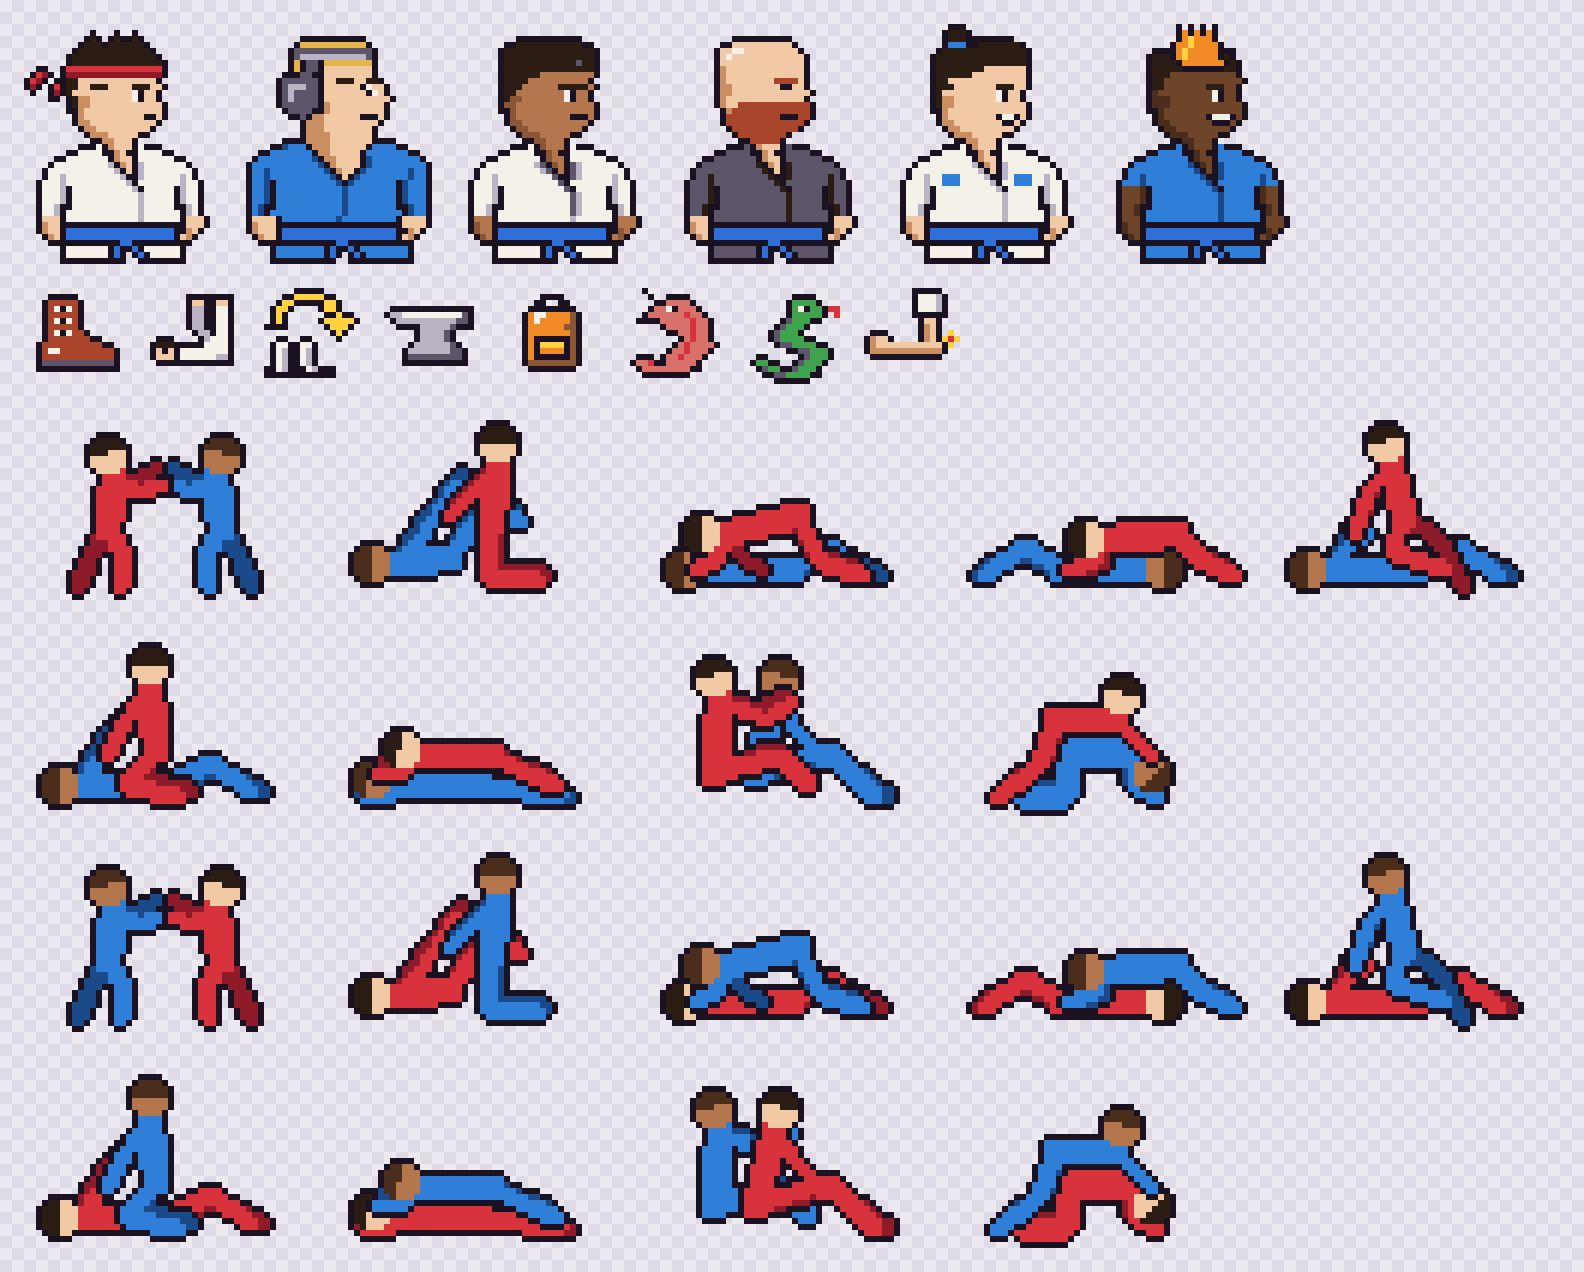
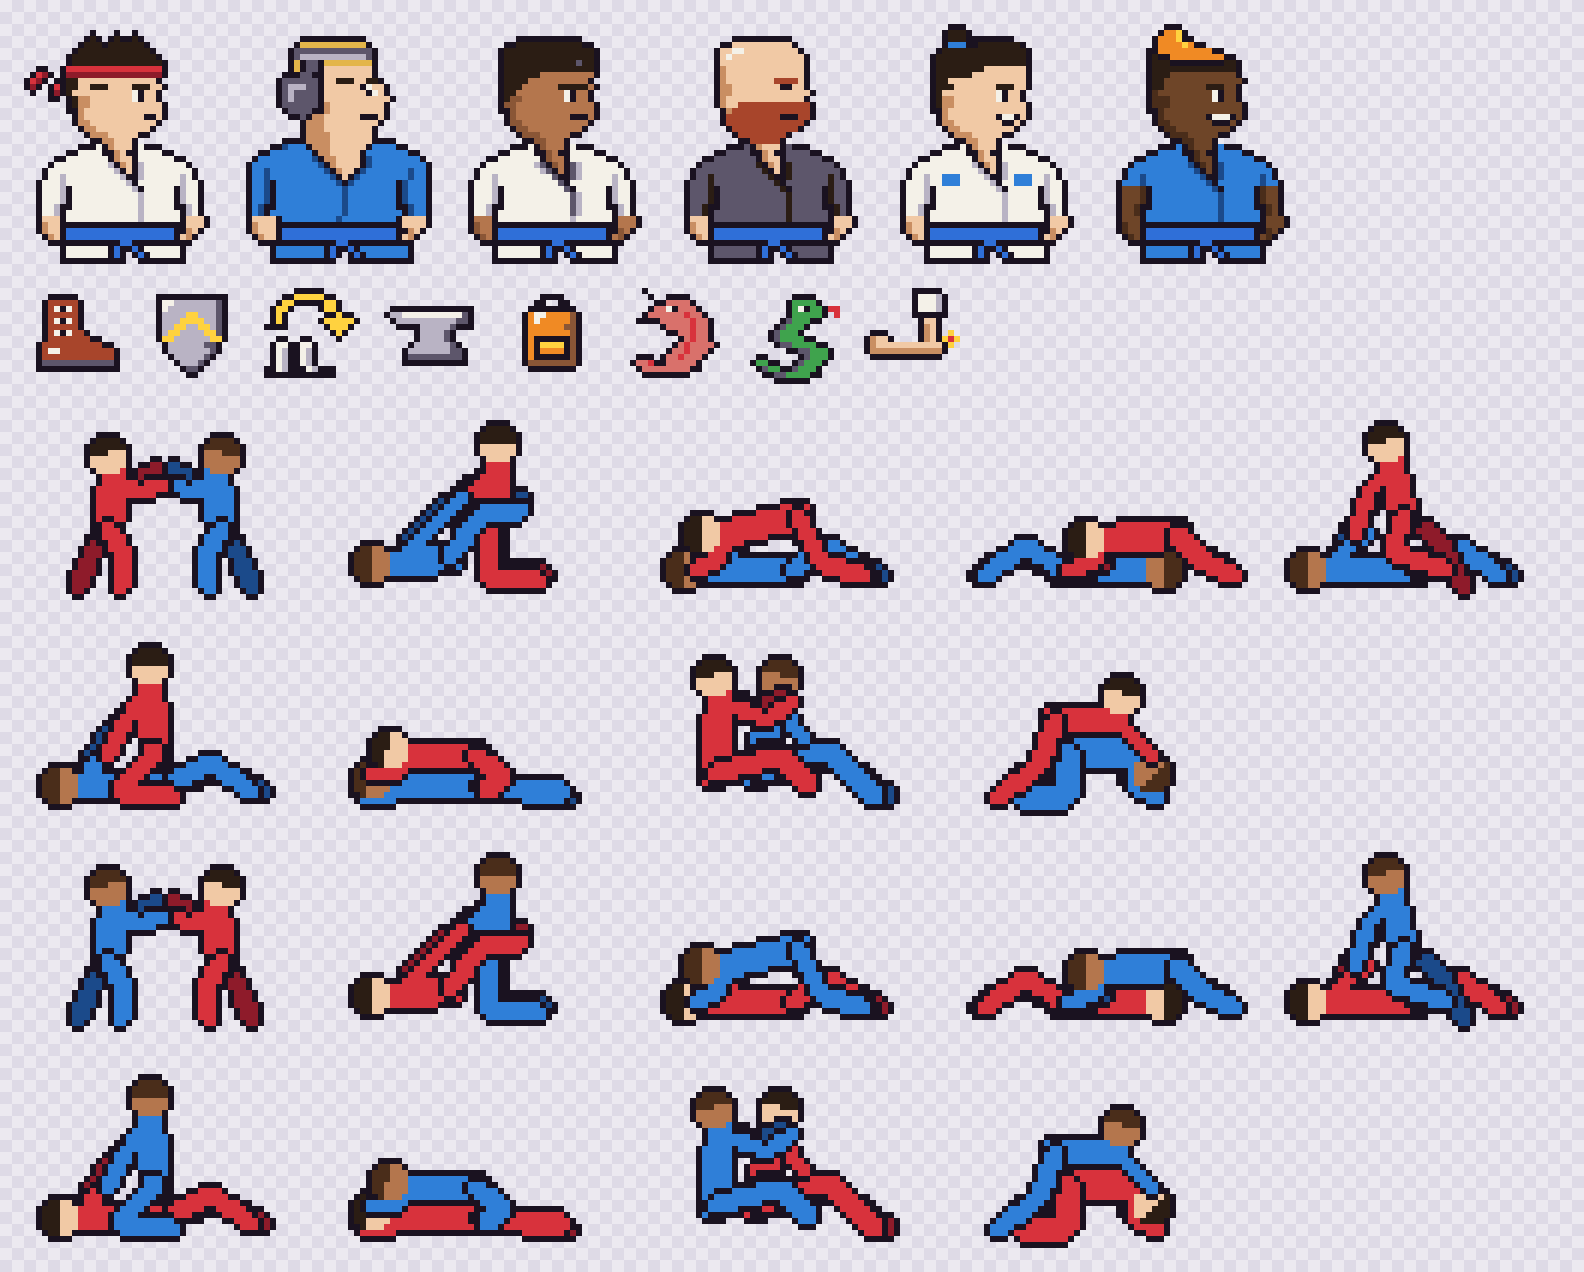
Redraw the art after Joshua's review
Scenes: guard wraps the legs round the waist, side control hides the far
arm, mount puts the far leg on the other side, back mount tucks the feet
in at the hips. The rig paints parts in a per-scene order to do it, and
the underneath versions share the poses. The guard icon is a shield (bent
legs didn't read at 16 px); the scrambler's mohawk is one swept crest.

diff --git a/src/games/guard/art/rig.ts b/src/games/guard/art/rig.ts
@@ -26,7 +26,42 @@ export type Pose = {
   kneeF: Point;
   footF: Point;
 };
-export type Scene = { top: Pose; bottom: Pose };
+type Role = "top" | "bottom";
+/** A fighter's parts, painted separately so the other body can come between them. */
+type Part = "far" | "body" | "legN";
+/**
+ * The order parts are painted in, back to front. The default paints the fighter underneath first;
+ * OVER tucks the top fighter's far arm and leg behind the one underneath (side control, mount,
+ * back mount: they're on the other side of the body); WRAP puts the bottom fighter's near leg in front
+ * of the top fighter, so closed guard's legs go round the waist rather than beside it.
+ */
+type Layers = readonly (readonly [Role, Part])[];
+const BASE_LAYERS: Layers = [
+  ["bottom", "far"],
+  ["bottom", "body"],
+  ["bottom", "legN"],
+  ["top", "far"],
+  ["top", "body"],
+  ["top", "legN"],
+];
+const OVER: Layers = [
+  ["top", "far"],
+  ["bottom", "far"],
+  ["bottom", "body"],
+  ["bottom", "legN"],
+  ["top", "body"],
+  ["top", "legN"],
+];
+const WRAP: Layers = [
+  ["bottom", "far"],
+  ["top", "far"],
+  ["top", "body"],
+  ["top", "legN"],
+  ["bottom", "body"],
+  ["bottom", "legN"],
+];
+
+export type Scene = { top: Pose; bottom: Pose; layers?: Layers };
 
 const pose = (p: Pose) => p;
 
@@ -75,19 +110,22 @@ const guard: Scene = {
     kneeF: [26, 27],
     footF: [35, 28],
   }),
+  // Legs round the waist: the near thigh up the side of their hips, the shin across the small of
+  // their back, ankles crossed behind them (only the far foot shows, past their back).
   bottom: pose({
     head: [6, 26],
     neck: [10, 26],
     hip: [19, 25],
     elbowN: [14, 22],
-    handN: [20, 13],
+    handN: [21, 15],
     elbowF: [13, 21],
-    handF: [21, 11],
+    handF: [22, 13],
     kneeN: [24, 18],
-    footN: [31, 19],
-    kneeF: [23, 17],
-    footF: [30, 17],
+    footN: [31, 17],
+    kneeF: [25, 17],
+    footF: [31, 15],
   }),
+  layers: WRAP,
 };
 
 // Side control: them flat on their back; you across their chest, knees on the mat by their hip.
@@ -118,6 +156,8 @@ const sideControl: Scene = {
     kneeF: [31, 24],
     footF: [39, 28],
   }),
+  // The far arm is on the other side of their body (OVER).
+  layers: OVER,
 };
 
 // North-south: them on their back, head to the right; you on their chest, head toward their hips.
@@ -182,6 +222,7 @@ const kneeOnBelly: Scene = {
 
 // Mount: them flat; you sitting upright on their belly, knees on the mat either side.
 const mount: Scene = {
+  // The far knee and foot sit on the other side of their body, hidden behind it (OVER).
   top: pose({
     head: [21, 7],
     neck: [21, 11],
@@ -190,10 +231,10 @@ const mount: Scene = {
     handN: [14, 22],
     elbowF: [18, 15],
     handF: [15, 20],
-    kneeN: [17, 27],
-    footN: [26, 29],
+    kneeN: [16, 28],
+    footN: [25, 29],
     kneeF: [19, 26],
-    footF: [28, 28],
+    footF: [26, 26],
   }),
   bottom: pose({
     head: [6, 27],
@@ -208,22 +249,25 @@ const mount: Scene = {
     kneeF: [32, 24],
     footF: [40, 28],
   }),
+  layers: OVER,
 };
 
 // Back mount: them flattened face down; you lying on their back, an arm round the neck.
 const backMount: Scene = {
+  // Chest on their back, an arm under the chin, hooks in: knees down by their hips, feet tucked
+  // in at the hips rather than trailing behind.
   top: pose({
-    head: [11, 21],
-    neck: [14, 22],
-    hip: [26, 22],
-    elbowN: [11, 25],
-    handN: [7, 25],
-    elbowF: [12, 24],
-    handF: [8, 23],
-    kneeN: [32, 25],
-    footN: [37, 27],
-    kneeF: [31, 24],
-    footF: [36, 26],
+    head: [9, 21],
+    neck: [12, 22],
+    hip: [23, 22],
+    elbowN: [10, 25],
+    handN: [6, 25],
+    elbowF: [11, 24],
+    handF: [7, 23],
+    kneeN: [28, 25],
+    footN: [25, 28],
+    kneeF: [27, 24],
+    footF: [24, 27],
   }),
   bottom: pose({
     head: [6, 26],
@@ -238,6 +282,7 @@ const backMount: Scene = {
     kneeF: [32, 28],
     footF: [39, 29],
   }),
+  layers: OVER,
 };
 
 // Back control: both seated facing right; you behind, hooks in, arms round the neck (seat belt).
@@ -312,12 +357,27 @@ export const SCENES: Record<Kind, Scene> = {
   turtle,
 };
 
-/** Who is who: on "top" you're the top pose, on "bottom" the bottom one; standing, the left one. */
-export function cast(kind: Kind, perspective: Perspective): { you: Pose; them: Pose } {
+/** A paint order in you/them terms, for drawScene. */
+export type CastLayers = readonly (readonly ["you" | "them", Part])[];
+
+/**
+ * Who is who: on "top" you're the top pose, on "bottom" the bottom one; standing, the left one.
+ * `layers` is the scene's paint order with roles turned into you and them.
+ */
+export function cast(
+  kind: Kind,
+  perspective: Perspective,
+): { you: Pose; them: Pose; layers: CastLayers } {
   const scene = SCENES[kind];
-  return perspective === "bottom"
-    ? { you: scene.bottom, them: scene.top }
-    : { you: scene.top, them: scene.bottom };
+  const youRole: Role = perspective === "bottom" ? "bottom" : "top";
+  const layers = (scene.layers ?? BASE_LAYERS).map(
+    ([role, part]) => [role === youRole ? "you" : "them", part] as const,
+  );
+  return {
+    you: scene[youRole],
+    them: scene[youRole === "top" ? "bottom" : "top"],
+    layers,
+  };
 }
 
 /** Every joint moved t of the way from a to b (0 to 1): the replay's tween between positions. */
@@ -357,7 +417,7 @@ function dist2(px: number, py: number, a: Point, b: Point): number {
 
 type Stroke = { a: Point; b: Point; r: number; key: PaletteKey };
 
-function strokes(p: Pose, look: Look): { far: Stroke[]; near: Stroke[] } {
+function strokes(p: Pose, look: Look): Record<Part, Stroke[]> {
   const limb = (a: Point, b: Point, r: number, key: PaletteKey): Stroke => ({ a, b, r, key });
   return {
     far: [
@@ -366,25 +426,26 @@ function strokes(p: Pose, look: Look): { far: Stroke[]; near: Stroke[] } {
       limb(p.hip, p.kneeF, WIDTH.leg / 2, look.shade),
       limb(p.kneeF, p.footF, WIDTH.leg / 2, look.shade),
     ],
-    near: [
+    body: [
       limb(p.neck, p.hip, WIDTH.torso / 2, look.body),
-      limb(p.hip, p.kneeN, WIDTH.leg / 2, look.body),
-      limb(p.kneeN, p.footN, WIDTH.leg / 2, look.body),
       limb(p.neck, p.elbowN, WIDTH.arm / 2, look.body),
       limb(p.elbowN, p.handN, WIDTH.arm / 2, look.body),
       limb(p.head, p.head, WIDTH.head, look.skin),
     ],
+    legN: [
+      limb(p.hip, p.kneeN, WIDTH.leg / 2, look.body),
+      limb(p.kneeN, p.footN, WIDTH.leg / 2, look.body),
+    ],
   };
 }
 
-/** Paints one fighter: fill, then a 1-pixel outline around it, over whatever is underneath. */
-function paint(grid: string[][], p: Pose, look: Look) {
+/** Paints one part of a fighter: fill, then a 1-pixel outline around it, over whatever is beneath. */
+function paint(grid: string[][], p: Pose, look: Look, part: Part) {
   const { w, h } = SCENE;
   const mask: (PaletteKey | null)[][] = Array.from({ length: h }, () =>
     Array<PaletteKey | null>(w).fill(null),
   );
-  const { far, near } = strokes(p, look);
-  for (const s of [...far, ...near]) {
+  for (const s of strokes(p, look)[part]) {
     const x0 = Math.max(0, Math.floor(Math.min(s.a[0], s.b[0]) - s.r));
     const x1 = Math.min(w - 1, Math.ceil(Math.max(s.a[0], s.b[0]) + s.r));
     const y0 = Math.max(0, Math.floor(Math.min(s.a[1], s.b[1]) - s.r));
@@ -426,18 +487,35 @@ function paint(grid: string[][], p: Pose, look: Look) {
   }
 }
 
-/**
- * A scene as a sprite. The fighter lower on the screen (the one underneath) is painted first, so
- * the top fighter's outline separates them; standing paints them first, so you're in front.
- */
-export function drawScene(you: Pose, them: Pose): Sprite {
+/** A scene as a sprite, painted part by part in `layers` order (default: the one underneath first). */
+export function drawScene(you: Pose, them: Pose, layers?: CastLayers): Sprite {
   const grid = Array.from({ length: SCENE.h }, () => Array<string>(SCENE.w).fill("."));
-  const order = you.hip[1] > them.hip[1] ? [you, them] : [them, you];
-  for (const p of order) paint(grid, p, p === you ? LOOKS.you : LOOKS.them);
+  const order: CastLayers =
+    layers ??
+    (you.hip[1] > them.hip[1]
+      ? [
+          ["you", "far"],
+          ["you", "body"],
+          ["you", "legN"],
+          ["them", "far"],
+          ["them", "body"],
+          ["them", "legN"],
+        ]
+      : [
+          ["them", "far"],
+          ["them", "body"],
+          ["them", "legN"],
+          ["you", "far"],
+          ["you", "body"],
+          ["you", "legN"],
+        ]);
+  for (const [who, part] of order) {
+    paint(grid, who === "you" ? you : them, who === "you" ? LOOKS.you : LOOKS.them, part);
+  }
   return { rows: grid.map((row) => row.join("")) };
 }
 
 export function sceneSprite(kind: Kind, perspective: Perspective): Sprite {
-  const { you, them } = cast(kind, perspective);
-  return drawScene(you, them);
+  const { you, them, layers } = cast(kind, perspective);
+  return drawScene(you, them, layers);
 }

diff --git a/src/games/guard/art/sprites/scrambler.ts b/src/games/guard/art/sprites/scrambler.ts
@@ -1,17 +1,17 @@
 import type { Sprite } from "../sprite";
 
-// Opponent, Scrambler: an orange mohawk over cropped dark sides, a toothy grin, dark skin, a blue gi
+// Opponent, Scrambler: an orange mohawk running front to back over cropped dark sides, a toothy grin, dark skin, a blue gi
 // with the sleeves rolled up, today's belt (L). Faces right. 32x40.
 export const scrambler: Sprite = {
   rows: [
-    "............k.k.k.k.............",
-    "............kokokok.............",
-    "............koYoook.............",
-    "...........kooYooook............",
-    "........kkkkoYoooookkk..........",
-    ".......khhhkoYoooookhk..........",
-    ".......khhhhkoooooookhk.........",
-    ".......khhhhhkkkkkkkhhk.........",
+    "..........kkk...................",
+    ".........kooYk..................",
+    "........koooYkk.................",
+    "........kooooYokk...............",
+    ".......kkoooooooookk............",
+    ".......khkkoooooooookk..........",
+    ".......khhhkkkkkkkkkhhk.........",
+    ".......khhhhhhhhhhhhhhk.........",
     ".......khhhdddddddddddk.........",
     ".......khhdddddddddddddk........",
     ".......khhdddddddhhhddk.........",

diff --git a/src/games/guard/art/Art.tsx b/src/games/guard/art/Art.tsx
@@ -91,8 +91,8 @@ type Place = { kind: Kind; perspective: Perspective };
 /** A position, still: you in red, them in blue. 48x32. */
 export function PositionScene({ kind, perspective, className, title }: Common & Place) {
   const sprite = useMemo(() => {
-    const { you, them } = cast(kind, perspective);
-    return drawScene(you, them);
+    const { you, them, layers } = cast(kind, perspective);
+    return drawScene(you, them, layers);
   }, [kind, perspective]);
   return (
     <PixelSprite
@@ -139,7 +139,9 @@ export function FightScene({
     const a = cast(from.kind, from.perspective);
     const b = cast(to.kind, to.perspective);
     const t = frame / TWEEN.frames;
-    return drawScene(poseBetween(a.you, b.you, t), poseBetween(a.them, b.them, t));
+    // The paint order switches half way, so a sweep ends with the new position's layering.
+    const layers = t < 0.5 ? a.layers : b.layers;
+    return drawScene(poseBetween(a.you, b.you, t), poseBetween(a.them, b.them, t), layers);
   }, [from.kind, from.perspective, to.kind, to.perspective, frame]);
 
   return (

diff --git a/src/games/guard/art/sprites/icon-guard.ts b/src/games/guard/art/sprites/icon-guard.ts
@@ -1,23 +1,23 @@
 import type { Sprite } from "../sprite";
 
-// Stat icon, Guard: a fighter on their back, legs up, bare feet to the sky. 16x16, outlined in k.
+// Stat icon, Guard: a shield with a chevron, your guard as your defence and your base. 16x16, outlined in k.
 export const iconGuard: Sprite = {
   rows: [
     "................",
-    ".......kkkkkkkk.",
-    ".......ksskkssk.",
-    ".......kggkkwwk.",
-    ".......kggkkwwk.",
-    ".......kggkkwwk.",
-    ".......kggkkwwk.",
-    "........kggkwwk.",
-    "..kkk....kgwwwk.",
-    ".khhhkkkkkwwwwk.",
-    ".kskskwwwwwwwwk.",
-    ".kssskwwwwwwggk.",
-    "..kkkkkkkkkkkkk.",
-    "................",
-    "................",
+    "..kkkkkkkkkkkk..",
+    "..kwwgggggggGk..",
+    "..kwggggggggGk..",
+    "..kggggYYgggGk..",
+    "..kgggYYYYggGk..",
+    "..kggYYggYYgGk..",
+    "..kgYYggggYYGk..",
+    "..kYYggggggYYk..",
+    "...kggggggGGk...",
+    "...kgggggggGk...",
+    "....kgggggGk....",
+    ".....kgggGk.....",
+    "......kGGk......",
+    ".......kk.......",
     "................",
   ],
 };

diff --git a/docs/guard/ART.md b/docs/guard/ART.md
@@ -8,12 +8,12 @@ change to `src/games/guard/art/`. Belts render in today's colour; the sheet show
 **Row 1, portraits (32x40):** your fighter (the hero: red headband, white gi), then the opponents in
 `ARCHETYPES` order: Ex-D1 wrestler (headgear, blue gi), Judo black belt (side part, heavy collar),
 Leg-lock specialist (bald, ginger beard, black gi), Guard player (top knot, sponsor patches),
-Scrambler (mohawk, rolled sleeves). All face right; the VS screen mirrors the opponent.
+Scrambler (a swept-back mohawk, rolled sleeves). All face right; the VS screen mirrors the opponent.
 
-**Row 2, stat icons (16x16)**, in `STATS` order: Standing (a wrestling boot), Guard (on your back,
-feet up), Passing (an arrow vaulting the knees), Top control (an anvil, for pressure), Back (a
-backpack: "taking the backpack"), Escapes (a shrimp, the hip escape), Chokes (a snake: anaconda and
-python chokes), Joint locks (a bent arm, a pop at the elbow).
+**Row 2, stat icons (16x16)**, in `STATS` order: Standing (a wrestling boot), Guard (a shield),
+Passing (an arrow vaulting the knees), Top control (an anvil, for pressure), Back (a backpack:
+"taking the backpack"), Escapes (a shrimp, the hip escape), Chokes (a snake: anaconda and python
+chokes), Joint locks (a bent arm, a pop at the elbow).
 
 **Rows 3 to 6, position scenes (48x32)**, you in red: standing, guard, side control, north-south,
 knee on belly (row 3), mount, back mount, back control, turtle (row 4), all with you on top; rows 5
@@ -23,10 +23,18 @@ position under it. The replay tweens between scenes, so a sweep shows red rollin
 
 ## Sign-off (Joshua)
 
-- [ ] Each opponent reads as their archetype at phone size.
-- [ ] Each icon reads as its stat, or at least won't mislead once its name is beside it.
-- [ ] Each scene is the right position to a grappler (the weakest: side control, north-south and
-      back mount look alike from the side; each is captioned).
+Reviewed 2026-10-06. Changed after his notes, awaiting a second look:
+
+- [x] Portraits are fine. The scrambler's mohawk was "kinda weird" (it read as a crown): redrawn as
+      one swept-back crest.
+- [x] Icons are fine except Guard ("feet up is way weird"): bent legs didn't read at 16 px either, so
+      it's his other suggestion, a shield, with a chevron rather than a cross.
+- [x] Scenes: north-south, knee on belly, back control and turtle are fine. Redrawn: **guard** (their
+      legs now wrap round your waist, ankles crossed behind you, instead of sitting beside you),
+      **side control** (the far arm is hidden on the other side of their body), **mount** (the far
+      knee and foot are on the other side, hidden), **back mount** (hooks in, feet by their hips).
+      The rig paints parts in a per-scene order to do this (`layers` in `rig.ts`), and the
+      underneath versions share the same poses, so they changed too.
 
 ## How it was drawn (for rebuilding it)
 
